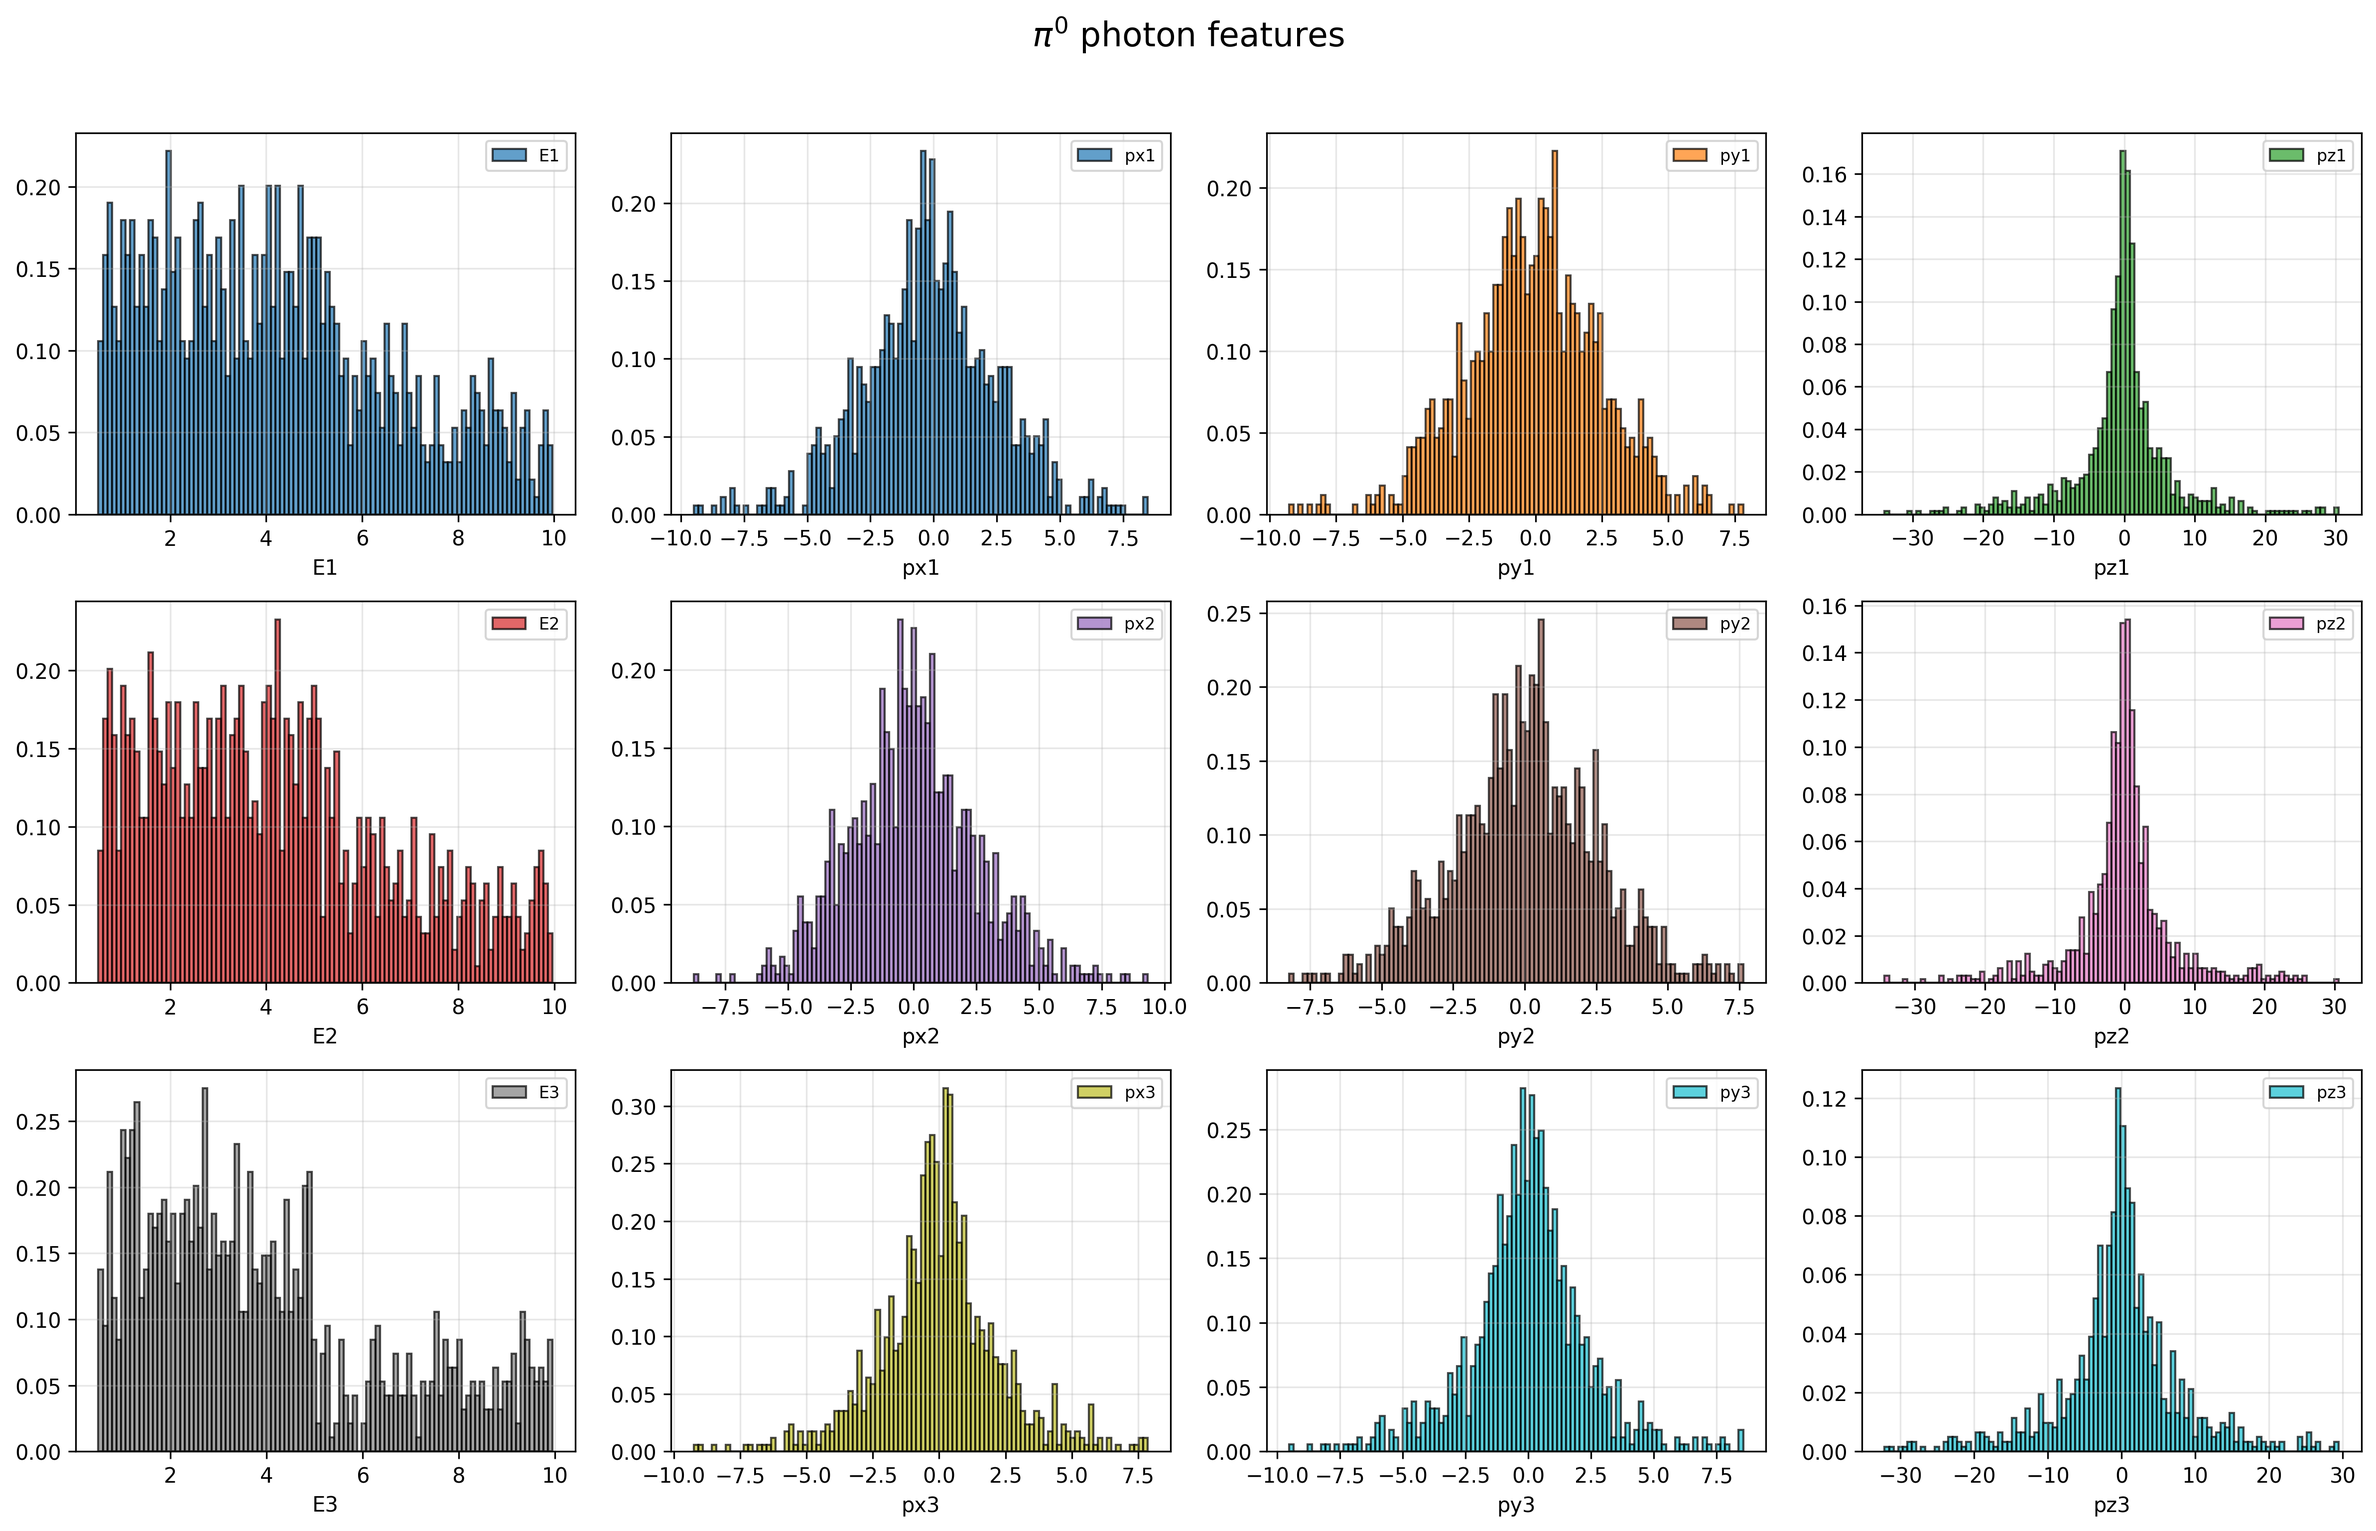
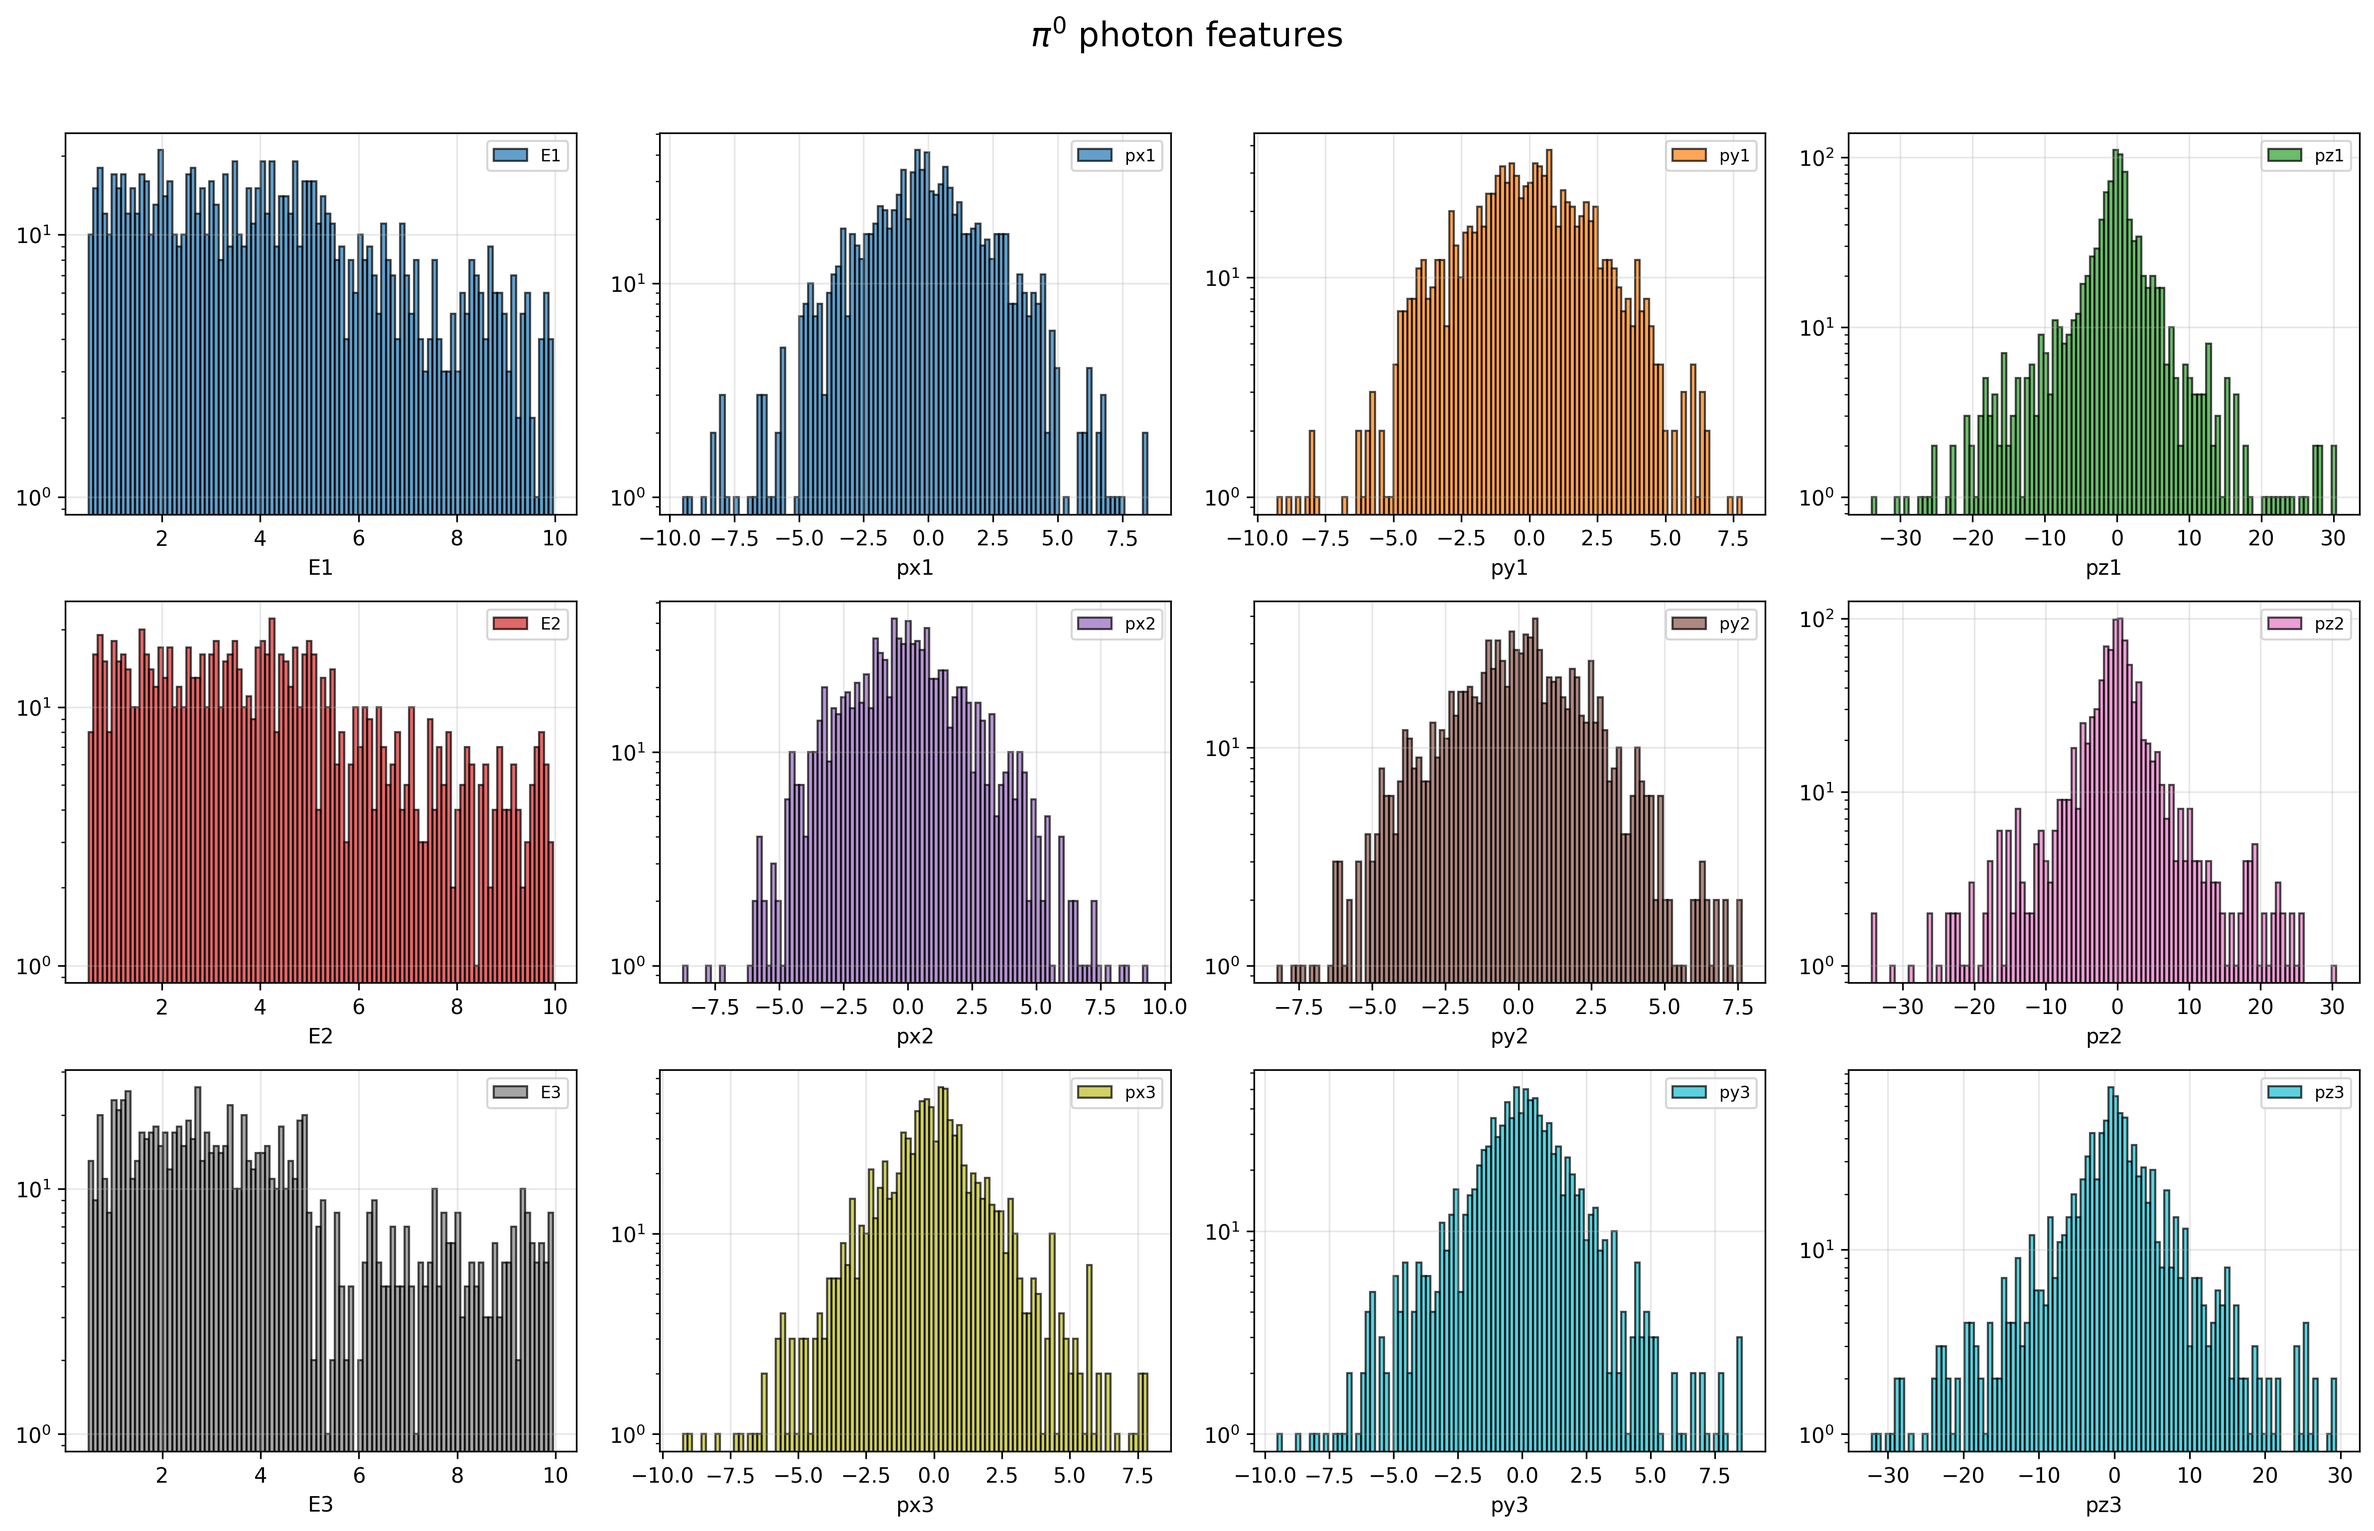
all changes

diff --git a/main.py b/main.py
@@ -147,17 +147,18 @@ if __name__ == "__main__":
     print(f"photon features: {columns_df}")
     #print(f"photon 4-mom (E, px, py, pz): ({df[]})")
 
+    # plot 3 photon 4-momentum
     plot_hist(df, columns_df, 3, 100, "photon_features") # data, column list, number of rows to plot, number of bins
-    
 
-    # test methods
-    #test_print()
-
-    # Prepare pair dataset with EXACT 4-vector quantities
+     # Prepare pair dataset with EXACT 4-vector quantities
     print("\n0. Creating photon pairs with EXACT invariant masses ...")
     pair_df = prepare_3photon_paris(df)
+    columns_pair_df = [col for col in pair_df.columns if col != 'pair_id']
+
     #print(f"    {len(pair_df)} pairs created")
     #print(f"    {pair_df.is_pi0.sum()} true pi0 pairs")
+    print(f"    Cloumns: {columns_pair_df}")
+    plot_hist(pair_df, columns_pair_df, 2, 100, "pair_features")
 
     # Feature ispection: EXACT physics quantities from 4-vectors
     features = ['m_gg']
@@ -169,7 +170,7 @@ if __name__ == "__main__":
     print("\n1. Inspect features ...")
     #print(f"# columns ({len(pair_df.columns[:])}); Column name:    {pair_df.columns[:]}")
     #print(pair_df.head(5))
-    #print(f"Statistics:\n{pair_df.describe()}")
+    print(f"Statistics:\n{pair_df.describe()}")
     #print(df.head(10))
     #print(f"Column name: {df.columns[0]}")
     #print(f"Data type: {df.dtypes}")

diff --git a/methods.py b/methods.py
@@ -142,15 +142,18 @@ def plot_hist(df, columns_df, rows, bins, plot_nm):
 
     for i, label in enumerate(columns_df[:col_len]):
         print(i, label)
-        axes[i].hist(df[label], color=colors[i], bins=bins, label=label,density=True, edgecolor='black', alpha=0.7)
+        # desity=True normalized
+        axes[i].hist(df[label], color=colors[i], bins=bins, label=label, density=False, edgecolor='black', alpha=0.7)
         #axes[i].set_title(label, fontsize=12)
         axes[i].set_xlabel(label)
         axes[i].set_ylabel(None)
         axes[i].grid(True, alpha=0.3)
         axes[i].legend(loc='best', fontsize=8) 
+        axes[i].set_yscale('log')  # <-- LOG SCALE ON Y-AXIS
+        
     plt.tight_layout()
     plt.savefig(plot_nm + '.png', dpi=300, bbox_inches='tight')
-    plt.show()
+    plt.show(block=False)
     plt.close()
 
 r'''
